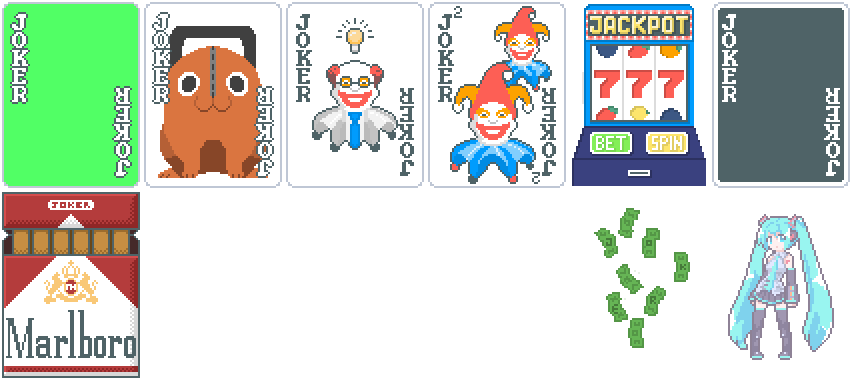
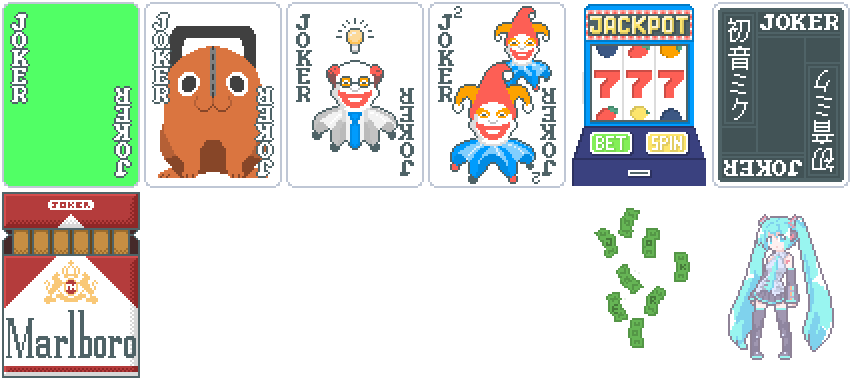
added more common jokers

Changed region(s): [[0.8239, 0.0289, 1.0, 0.2895], [0.8239, 0.2026, 1.0, 0.4632]]

diff --git a/README.md b/README.md
@@ -24,18 +24,18 @@ fixing them.
 # current features
 
 at the time of writing this, this mod adds:
-- 13 new jokers (2 currently unobtainable tho)
+- 21 new jokers
 - 9 new tarot cards
-- 2 new planet cards (currently removed because i didnt have to time to fix properly lol)
-- 2 new spectral cards
-- 7 new card enhancements like effects
+- 3 new spectral cards
+- 6 new card enhancement like effects
+- 2 new enhancements
 - 2 new vouchers
 - 2 new editions
 - 4 new booster packs
 - 5 new blinds
 - 3 new suits
 
-5 of the new enhancements im going to refer to as perk cards, as the packs for them do. these are essentially cards that have
+the new enhancement like effects im going to refer to as perk cards, as the packs for them do. these are essentially cards that have
 special effects when you play them. im also working towards making them a unique game item, instead of being found under the
 enhancements, but for now having them as enhancements works well enough, and due to the small amount of them they shouldnt clutter
 the collection too much. there are some new terms i use for these cards but everything is explained it info boxes, hopefully
@@ -46,12 +46,6 @@ one of the suits will also disable the corresponding suit conv consumable, and b
 but if thats something people want changed i would be more than happy to
 
 # known 'quirks'
-
-currently 2 jokers are unobtainable through legitimate means, namely the makima and aizen 'divine' jokers. i do plan
-on adding ways to obtain them further down the line, but as i mentioned i wanted to get something released soon. the
-snakes eyes joker is currently only compatible with vanilla joker/enhancements, as ive had to hard code the compat list
-for the time being, i would like to figure out a way to do it dynamically, but considering the inconsistencies between
-mods and even base game items im unsure if itll be possible.
 
 im also in the process of making the colourblind edition only available on compatible jokers, but my code apparently just
 stopped working so for the time being its available on all jokers (and playing cards) but will not function on some jokers,
@@ -69,8 +63,6 @@ keep that setting on until i have sorted out proper unlock requirements
 # stuff ive had to disable for the time being
 
 - ben joker, incompatible with talisman i think, he cant handle big numbers
-- the planet cards for the time being, maybe due to incompat with bunco i think, they were locked behind
-one of the unobtainable jokers anyway
 
 # last few notes
 

diff --git a/TODO.md b/TODO.md
@@ -77,3 +77,24 @@ remove planets
 change ben effect
 then everything implemented is working
 more jnokers
+
+# jokers
+
+# commons
+
+If no other Jokers provide XMult, X2 Mult
+Club Sandwich If highest and lowest rank of a played hand are both clubs, this joker gains +3 mult. 
+large joker, +50 chips, +10 mult if cards in hand total at least 40
+
+# uncommon
+
+Skateboard -For each unique Hand Type played, gains 1x Mult. Resets when a duplicate hand is played.
+Fisherman (uncommon) - After playing a hand, increase hand size by 1. Resets at the end of round
+Wanted Poster If you get [Joker], +x1 mult. Joker changes when target joker is bought. (Can't pick legendary jokers or undiscovered jokers) rarity tho
+
+Would probably have an unlock condition, that requires you to have a certain amount of jokers discovered, so it's not too op with low discovered joker amounts. 
+
+
+# vouchers
+
+Mirror + Shattered Mirror vouchers - 2x / 4x chance for negative jokers to appear
